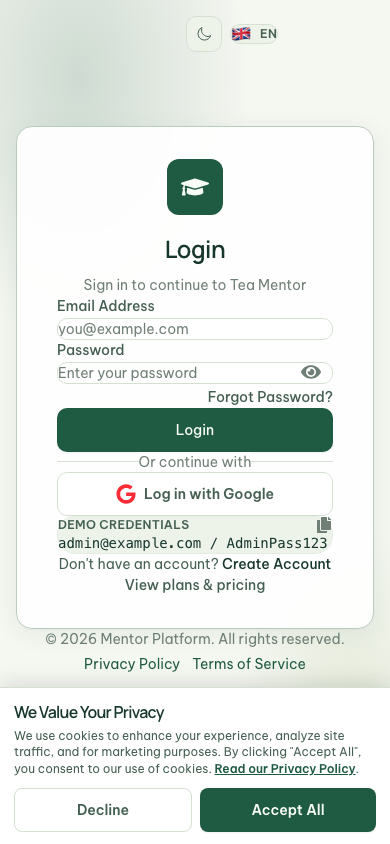
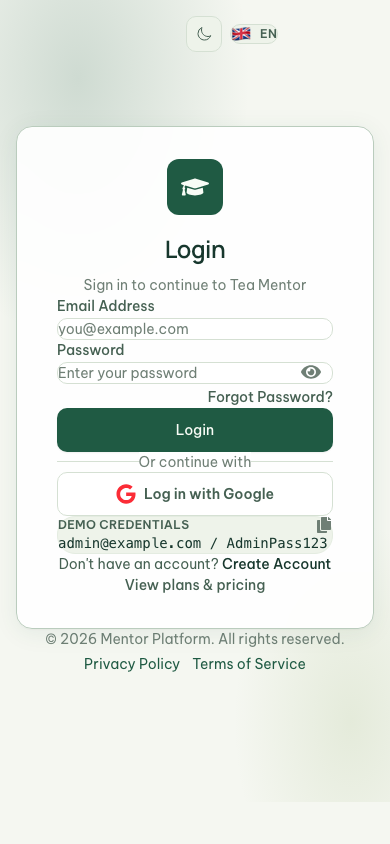
Refresh README gallery with clean screenshots

Changed region(s): [[0.0308, 0.8009, 1.0, 0.9858], [0.1846, 0.955, 0.3385, 0.9858]]

diff --git a/README.md b/README.md
@@ -120,7 +120,7 @@ Dependency direction is kept one-way: route screens use feature components and q
 
 ## 🖼 Product walkthrough
 
-The gallery below was captured from the running application with Playwright using the development demo account and synthetic data. It is intentionally kept under version control so the README documents the product that is actually built, not a separate design mockup.
+The gallery below was captured from the running application on 16 November 2026 with Playwright using the development demo account and synthetic data. Cookie consent and onboarding overlays are dismissed before capture, so every image shows the actual product surface clearly. The gallery is intentionally kept under version control so the README documents the product that is actually built, not a separate design mockup.
 
 ### Public and authentication surfaces
 
